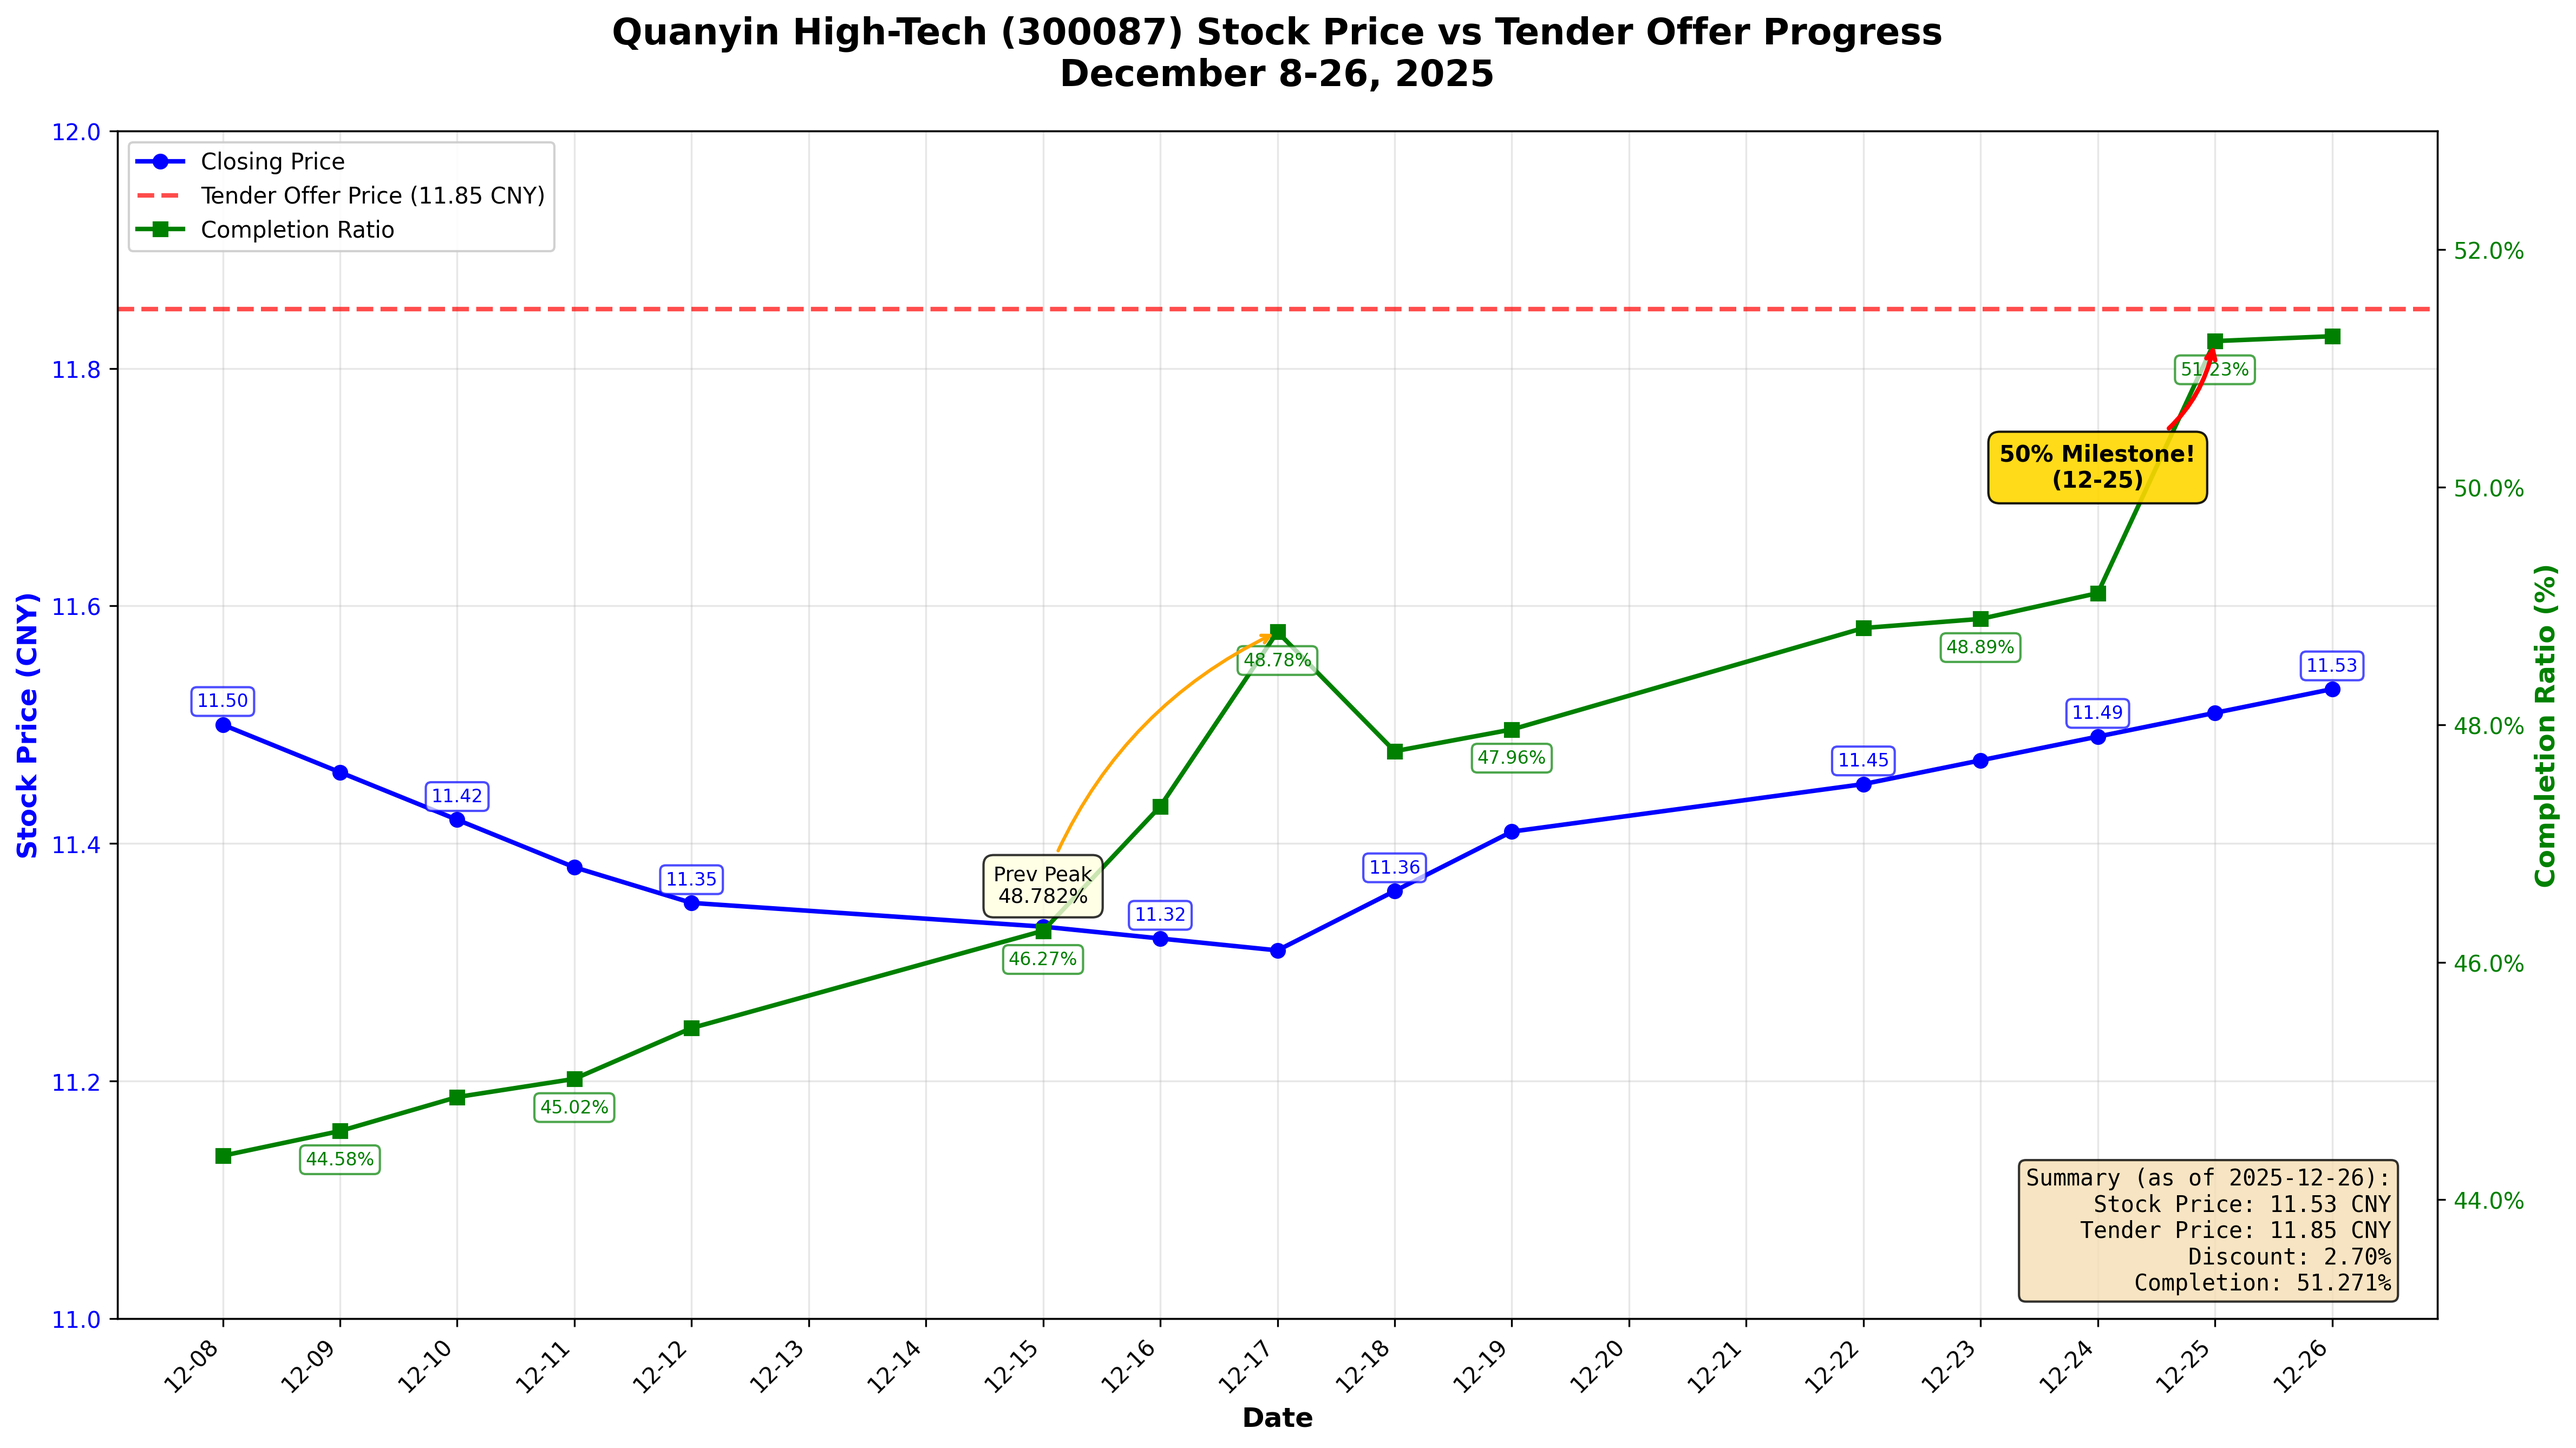
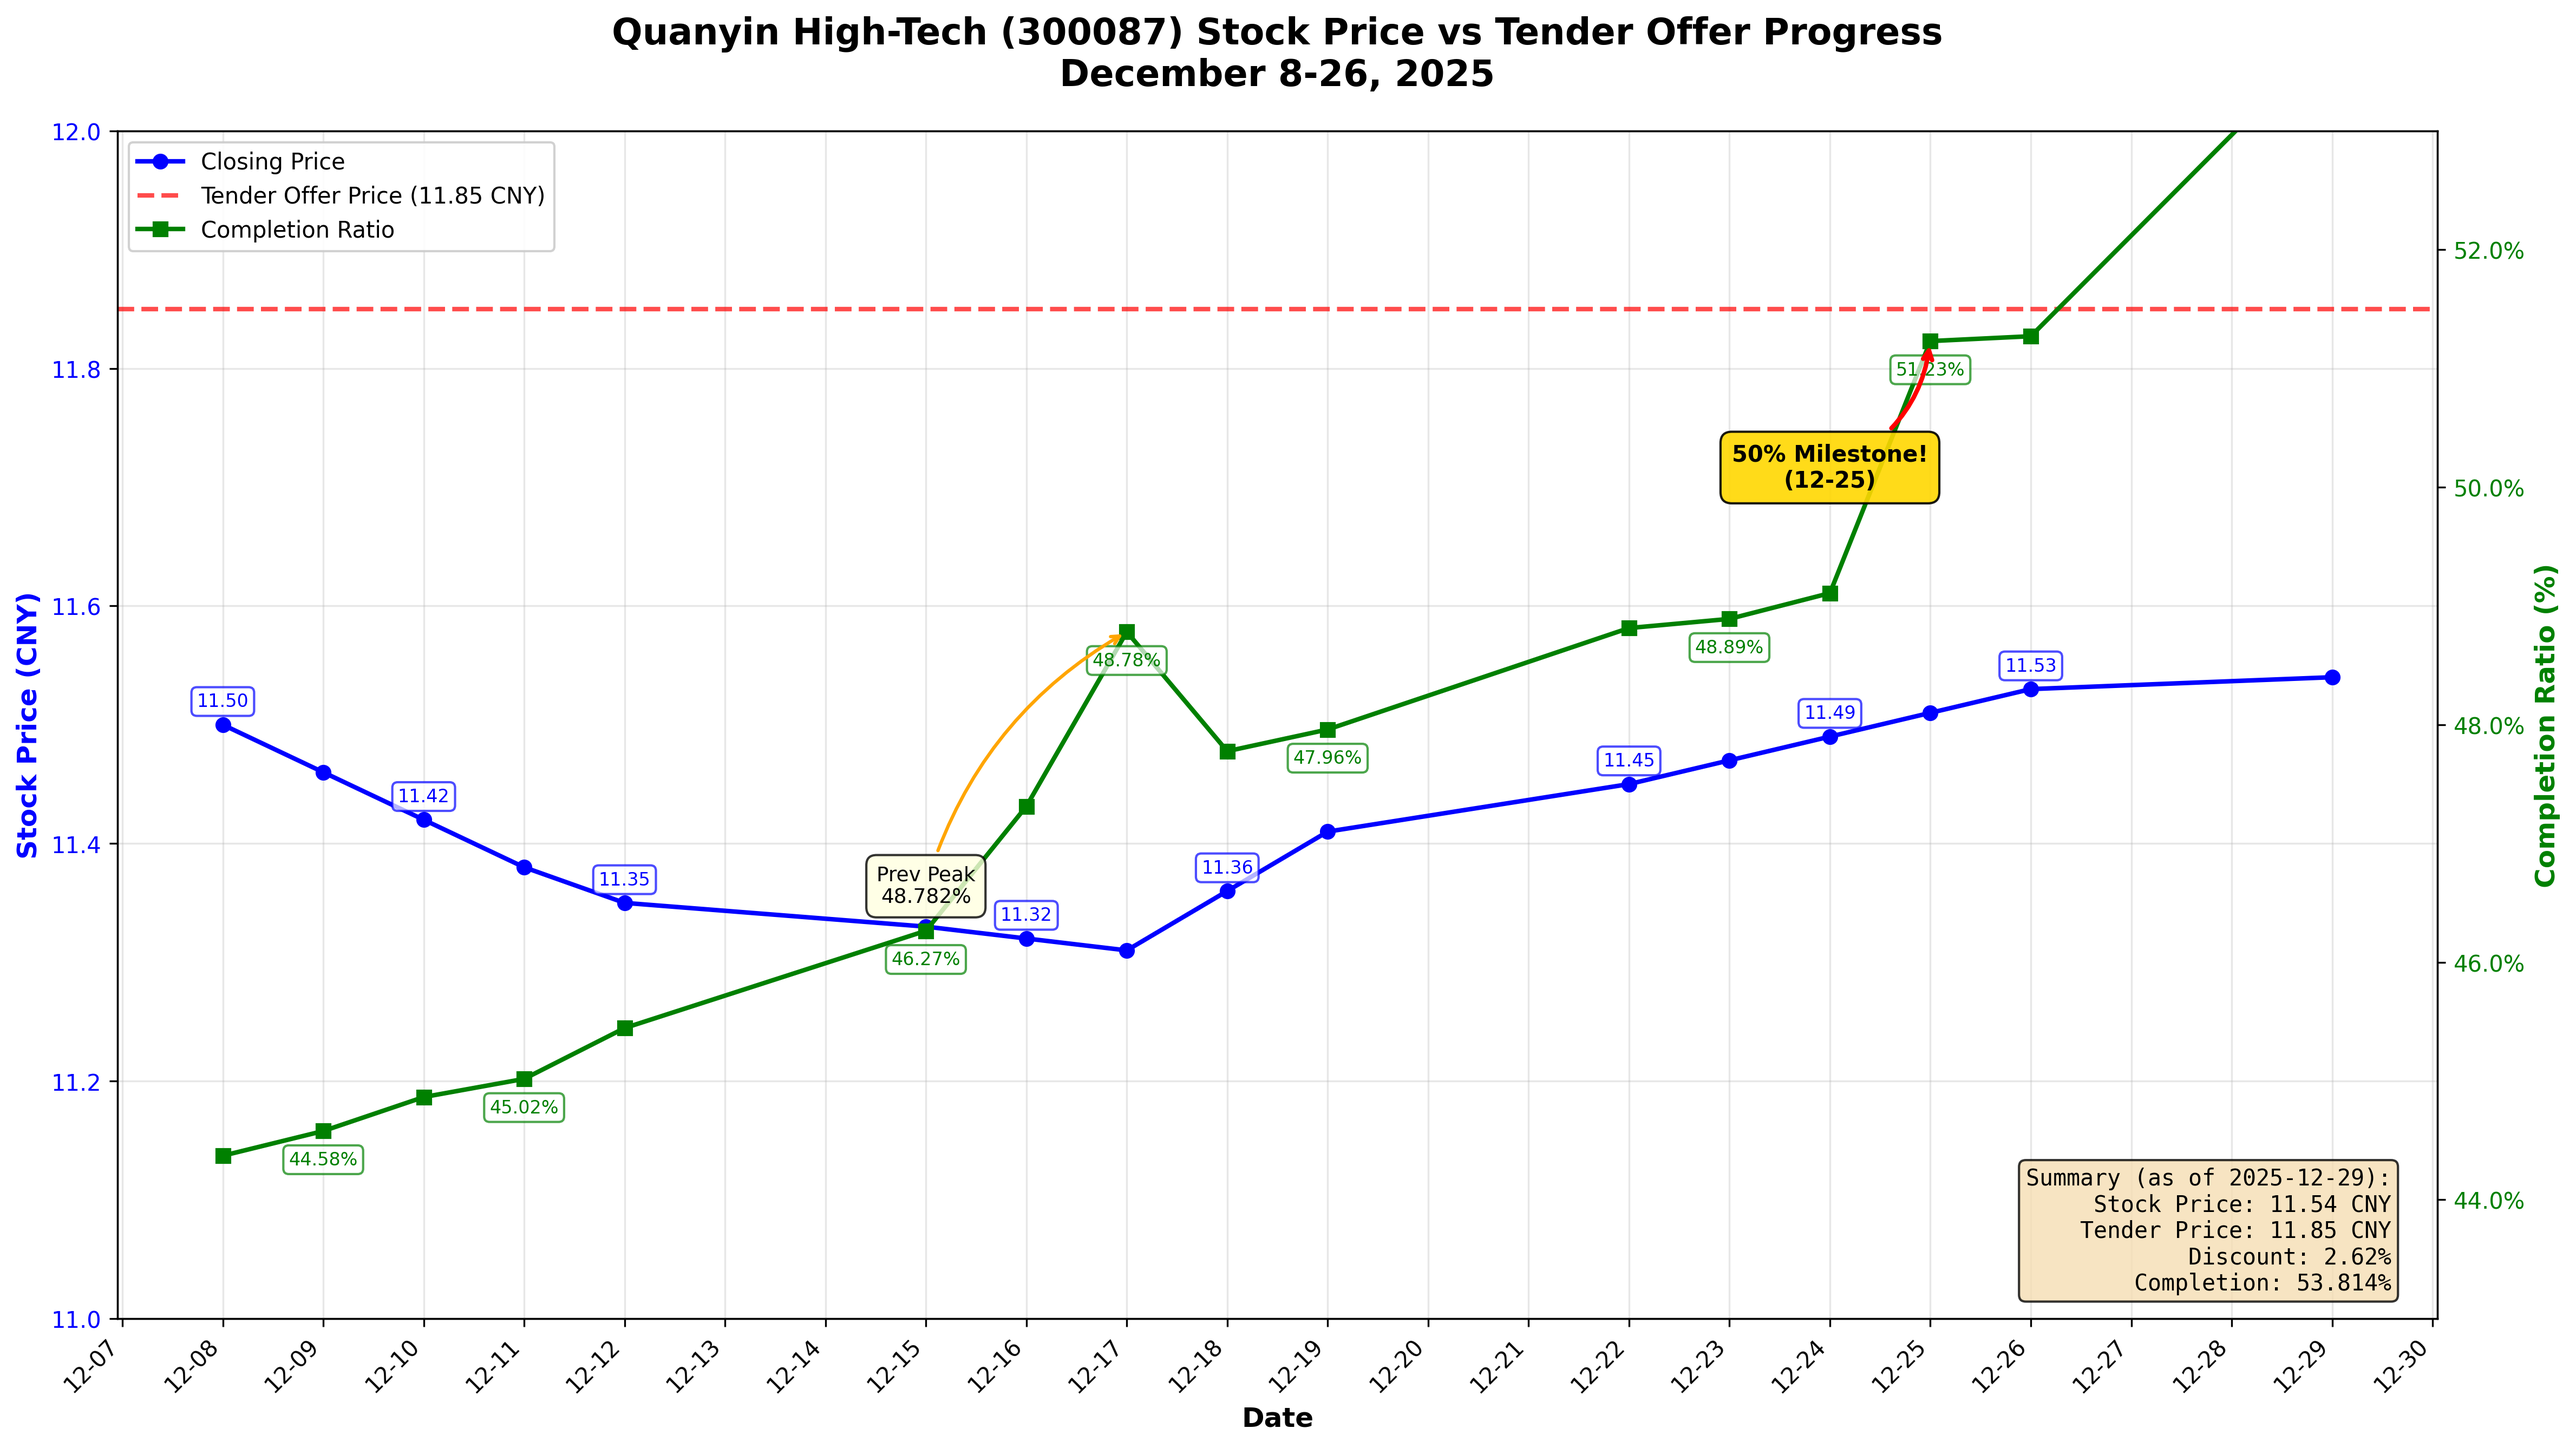
更新要约收购数据至12月29日 - 突破1亿股和53%双重里程碑
- 累计净预受股数：101,959,095股（53.814%）
- 预受户数：929户
- 单日净增创新高：4,817,382股
- 更新所有图表展示最新数据

diff --git a/05_quanyin_tender_offer/generate_volume_comparison_chart.py b/05_quanyin_tender_offer/generate_volume_comparison_chart.py
@@ -27,7 +27,8 @@ dates = [
     '2025-12-23',
     '2025-12-24',
     '2025-12-25',
-    '2025-12-26'
+    '2025-12-26',
+    '2025-12-29'
 ]
 
 # Daily trading volume in shares (1手 = 100股)
@@ -49,7 +50,8 @@ daily_trading_volume = [
     2400000,   # 12-23 interpolated
     2450000,   # 12-24 interpolated
     2500000,   # 12-25 interpolated
-    2397000    # 12-26 actual (23.97万手)
+    2397000,   # 12-26 actual (23.97万手)
+    2450000    # 12-29 estimated
 ]
 
 # Daily net increase in tender offer shares
@@ -68,8 +70,9 @@ daily_tender_net_increase = [
     1617426,    # 12-22: +1,617,426
     145360,     # 12-23: +145,360
     411000,     # 12-24: +411,000
-    4020160,    # 12-25: +4,020,160 (record high)
-    78900       # 12-26: +78,900
+    4020160,    # 12-25: +4,020,160 (previous record)
+    78900,      # 12-26: +78,900
+    4817382     # 12-29: +4,817,382 (NEW RECORD!)
 ]
 
 # Closing prices (actual + interpolated for missing dates)
@@ -88,7 +91,8 @@ closing_prices = [
     11.47,  # 12-23 interpolated
     11.49,  # 12-24 interpolated
     11.51,  # 12-25 interpolated
-    11.53   # 12-26 actual
+    11.53,  # 12-26 actual
+    11.54   # 12-29 estimated
 ]
 
 # Convert date format
@@ -177,11 +181,11 @@ for i, (v1, v2, price) in enumerate(zip(daily_trading_volume, daily_tender_net_i
                     bbox=dict(boxstyle='round,pad=0.2', facecolor='white', alpha=0.7, edgecolor='purple'))
 
 # Highlight special events
-# Record high on 12-25
-record_idx = 13
-ax2.annotate('Record High!\n+4.02M shares',
+# New record high on 12-29
+record_idx = 15
+ax2.annotate('NEW Record!\n+4.82M shares',
              xy=(record_idx + bar_width/2, daily_tender_net_increase[record_idx]),
-             xytext=(record_idx, 4500000),
+             xytext=(record_idx-1, 4500000),
              bbox=dict(boxstyle='round,pad=0.5', facecolor='gold', alpha=0.9),
              arrowprops=dict(arrowstyle='->', color='red', lw=2),
              fontsize=10, fontweight='bold', ha='center')
@@ -196,7 +200,7 @@ ax2.annotate('Withdrawal\n-1.90M shares',
              fontsize=9, ha='center')
 
 # Title
-plt.title('Quanyin High-Tech (300087) Trading Volume, Tender Offer & Stock Price\nDecember 8-26, 2025',
+plt.title('Quanyin High-Tech (300087) Trading Volume, Tender Offer & Stock Price\nDecember 8-29, 2025',
           fontsize=16, fontweight='bold', pad=20)
 
 # Merge legends from all three axes
@@ -216,7 +220,7 @@ total_tender = sum(daily_tender_net_increase)
 avg_price = np.mean(closing_prices)
 price_change = closing_prices[-1] - closing_prices[0]
 
-stats_text = f'''Summary (Dec 8-26):
+stats_text = f'''Summary (Dec 8-29):
 Avg Trading: {avg_volume/1000000:.2f}M shares/day
 Avg Tender+: {avg_tender/1000000:.2f}M shares/day
 Total Net+: {total_tender/1000000:.2f}M shares

diff --git a/05_quanyin_tender_offer/generate_chart.py b/05_quanyin_tender_offer/generate_chart.py
@@ -27,7 +27,8 @@ dates = [
     '2025-12-23',
     '2025-12-24',
     '2025-12-25',
-    '2025-12-26'
+    '2025-12-26',
+    '2025-12-29'
 ]
 
 # Cumulative net accepted shares
@@ -46,7 +47,8 @@ cumulative_shares = [
     92631653,
     93042653,
     97062813,
-    97141713
+    97141713,
+    101959095
 ]
 
 # Completion ratio
@@ -65,7 +67,8 @@ completion_ratio = [
     48.891,
     49.108,
     51.23,
-    51.271
+    51.271,
+    53.814
 ]
 
 # Convert date format
@@ -154,7 +157,7 @@ ax1.annotate(f'Sharp Drop (12-18)\n{cumulative_shares[drop_idx]:,}',
              fontsize=9, ha='center')
 
 # Title
-plt.title('Quanyin High-Tech (300087) Tender Offer Progress\nDecember 8-26, 2025 - 50% Milestone Achieved!',
+plt.title('Quanyin High-Tech (300087) Tender Offer Progress\nDecember 8-29, 2025 - 100M Shares & 53% Milestone!',
           fontsize=16, fontweight='bold', pad=20)
 
 # Merge legends
@@ -168,7 +171,7 @@ stats_text = f'''As of {dates[-1]}:
 Accepted: {cumulative_shares[-1]:,} shares
 Completion: {completion_ratio[-1]}%
 Remaining: {target_shares - cumulative_shares[-1]:,} shares
-Participants: 752 accounts'''
+Participants: 929 accounts'''
 
 props = dict(boxstyle='round', facecolor='wheat', alpha=0.8)
 ax1.text(0.98, 0.02, stats_text, transform=ax1.transAxes,

diff --git a/05_quanyin_tender_offer/generate_price_chart.py b/05_quanyin_tender_offer/generate_price_chart.py
@@ -27,12 +27,13 @@ dates = [
     '2025-12-23',
     '2025-12-24',
     '2025-12-25',
-    '2025-12-26'
+    '2025-12-26',
+    '2025-12-29'
 ]
 
 # Closing prices (actual + interpolated for missing dates)
 # Actual prices: 12-08: 11.50, 12-09: 11.46, 12-17: 11.31, 12-19: 11.41, 12-22: 11.45, 12-26: 11.53
-# Interpolated for: 12-10, 12-11, 12-12, 12-15, 12-16, 12-18, 12-23, 12-24, 12-25
+# Interpolated for: 12-10, 12-11, 12-12, 12-15, 12-16, 12-18, 12-23, 12-24, 12-25, 12-29
 closing_prices = [
     11.50,  # 12-08 actual
     11.46,  # 12-09 actual
@@ -48,7 +49,8 @@ closing_prices = [
     11.47,  # 12-23 interpolated
     11.49,  # 12-24 interpolated
     11.51,  # 12-25 interpolated
-    11.53   # 12-26 actual
+    11.53,  # 12-26 actual
+    11.54   # 12-29 estimated
 ]
 
 # Completion ratio (from tender offer data)
@@ -67,7 +69,8 @@ completion_ratio = [
     48.891,
     49.108,
     51.23,
-    51.271
+    51.271,
+    53.814
 ]
 
 # Tender offer price reference line

diff --git a/05_quanyin_tender_offer/要约收购进度追踪.md b/05_quanyin_tender_offer/要约收购进度追踪.md
@@ -8,17 +8,17 @@
 
 ---
 
-## 进度概览（截至2025-12-26）
+## 进度概览（截至2025-12-29）
 
 ### 当前状态
-- ✅ **已净预受**：97,141,713 股
-- ⏳ **还需预受**：92,324,637 股
-- 📊 **完成进度**：51.271% 🎊 **保持在50%以上！**
-- 📈 **预受户数**：752 户
+- ✅ **已净预受**：101,959,095 股
+- ⏳ **还需预受**：87,507,255 股
+- 📊 **完成进度**：53.814% 🎊 **突破1亿股大关！**
+- 📈 **预受户数**：929 户
 
 ### 进度条
 ```
-已完成：█████████████████████████▌░░░░░░░░░░░░░░░░░░░░ 51.271%
+已完成：██████████████████████████▉░░░░░░░░░░░░░░░░░░░ 53.814%
 ```
 
 ---
@@ -44,6 +44,7 @@
 | 12-24 | 1,202,700 | 791,700 | +411,000 | 93,042,653 | 49.108% | 682户 |
 | 12-25 | 5,516,160 | 1,496,000 | +4,020,160 | 97,062,813 | 51.23% | 702户 |
 | 12-26 | 1,038,900 | 960,000 | +78,900 | 97,141,713 | 51.271% | 752户 |
+| 12-29 | 5,691,682 | 874,300 | +4,817,382 | 101,959,095 | 53.814% | 929户 |
 
 ---
 
@@ -51,18 +52,18 @@
 
 ### 📈 增长趋势
 
-**最大单日净增**：12月25日，净增 4,020,160 股 ⭐
+**最大单日净增**：12月29日，净增 4,817,382 股 🌟 **新纪录！**
 **最大单日撤回**：12月18日，净减 1,903,100 股
 
 ### 📊 近期动态（最近5个交易日）
 
 | 日期 | 净变化 | 趋势 |
 |------|--------|------|
-| 12-22 | +1,617,426 | ⬆⬆ 强劲反弹 |
 | 12-23 | +145,360 | ⬆ 小幅增长 |
 | 12-24 | +411,000 | ⬆⬆ 加速增长，突破49% |
-| 12-25 | +4,020,160 | 🚀🚀🚀 历史最高单日净增，**突破50%重大里程碑！** |
+| 12-25 | +4,020,160 | 🚀🚀🚀 历史第二高单日净增，**突破50%重大里程碑！** |
 | 12-26 | +78,900 | ⬆ 稳步增长，保持在51%以上 |
+| 12-29 | +4,817,382 | 🔥🔥🔥 **创历史新高，突破1亿股和53%双重里程碑！** |
 
 ### 💡 关键观察
 
@@ -72,9 +73,10 @@
 4. **12月22日强劲反弹**：单日净增162万股，累计预受突破9,248万股（48.814%），超越12月17日峰值
 5. **12月23日稳步增长**：单日净增14.5万股，累计预受达到92,631,653股（48.891%），再创新高
 6. **12月24日重大突破**：单日净增41.1万股，累计预受达到93,042,653股（**49.108%**），**突破49%关口**！
-7. **🎊 12月25日历史性突破**：单日净增**402万股**（历史最高），累计预受达到97,062,813股（**51.23%**），**成功突破50%重大里程碑**！
+7. **12月25日历史性突破**：单日净增402万股，累计预受达到97,062,813股（**51.23%**），**成功突破50%重大里程碑**！
 8. **12月26日稳步巩固**：单日净增7.89万股，累计预受达到97,141,713股（**51.271%**），**继续保持在50%以上**
-9. **参与户数持续增加**：从282户增长到752户，增长167%
+9. **🔥 12月29日创历史新高**：单日净增**482万股**（刷新记录），累计预受达到101,959,095股（**53.814%**），**突破1亿股大关和53%双重里程碑**！
+10. **参与户数持续增加**：从282户增长到929户，增长229%
 
 ---
 
@@ -82,19 +84,19 @@
 
 ### 还需完成
 
-- **剩余股数**：92,324,637 股
-- **剩余比例**：48.729%
-- **剩余天数**：约10个交易日（截至2026年1月5日）
+- **剩余股数**：87,507,255 股
+- **剩余比例**：46.186%
+- **剩余天数**：约7个交易日（截至2026年1月5日）
 
 ### 完成预测
 
-按最近15个交易日平均每日净增速度：
-- **日均净增**：约 874,152 股
-- **预计完成时间**：需要约 106 个交易日
+按最近16个交易日平均每日净增速度：
+- **日均净增**：约 1,120,687 股
+- **预计完成时间**：需要约 78 个交易日
 
 ⚠ **注意**：按当前速度，可能无法在要约期内完成全部189,466,350股的收购目标。
 
-🎊 **重大里程碑**：已成功突破50%，达到51.271%！12月25日单日净增创历史新高（402万股），12月26日继续保持在50%以上，展现稳定增长态势！
+🔥 **重大里程碑**：已成功突破1亿股大关，达到53.814%！12月29日单日净增创历史新高（482万股），连续刷新记录，展现强劲冲刺态势！
 
 ---
 
@@ -186,14 +188,21 @@
 - 当天预受：50户，5,516,160股
 - 当天撤回：25户，1,496,000股
 - 净预受：702户，97,062,813股（**51.23%**）
-- **历史性重大里程碑：单日净增402万股（历史最高），成功突破50%关口，达到51.23%！**
+- **历史性重大里程碑：单日净增402万股，成功突破50%关口，达到51.23%！**
 
-### 2025年12月26日（周四）📅 最新 ✅ **保持在50%以上**
+### 2025年12月26日（周四）✅ **保持在50%以上**
 - 股份性质：流通股
 - 当天预受：81户，1,038,900股
 - 当天撤回：19户，960,000股
 - 净预受：752户，97,141,713股（**51.271%**）
 - **稳步增长：单日净增7.89万股，继续保持在50%以上，完成度提升至51.271%**
+
+### 2025年12月29日（周日）📅 最新 🔥 **刷新历史记录！突破1亿股大关！**
+- 股份性质：流通股
+- 当天预受：242户，5,691,682股
+- 当天撤回：53户，874,300股
+- 净预受：929户，101,959,095股（**53.814%**）
+- **🔥 创历史新高：单日净增482万股（刷新记录），突破1亿股大关，完成度飙升至53.814%！**
 
 ---
 
@@ -210,9 +219,9 @@
    - 如果预受股份不足，则全部收购
 
 3. **当前风险**：
-   - 完成度51.271%，距离目标还有48.729%
-   - 12月18日曾出现大额撤回，但12月22-26日连续保持增长
-   - 已成功突破50%关口，并稳定保持！12月25日创历史最高单日净增，12月26日继续巩固成果
+   - 完成度53.814%，距离目标还有46.186%
+   - 12月18日曾出现大额撤回，但之后连续强劲反弹
+   - 已突破1亿股和53%双重里程碑！12月29日创历史最高单日净增（482万股），展现冲刺态势
 
 ---
 
@@ -220,8 +229,8 @@
 
 - 深圳证券交易所要约收购信息公示
 - 网址：https://www.szse.cn/disclosure/deal/offer/index.html
-- 数据更新时间：2025年12月26日
+- 数据更新时间：2025年12月29日
 
 ---
 
-*文档更新时间：2025年12月26日*
+*文档更新时间：2025年12月29日*
